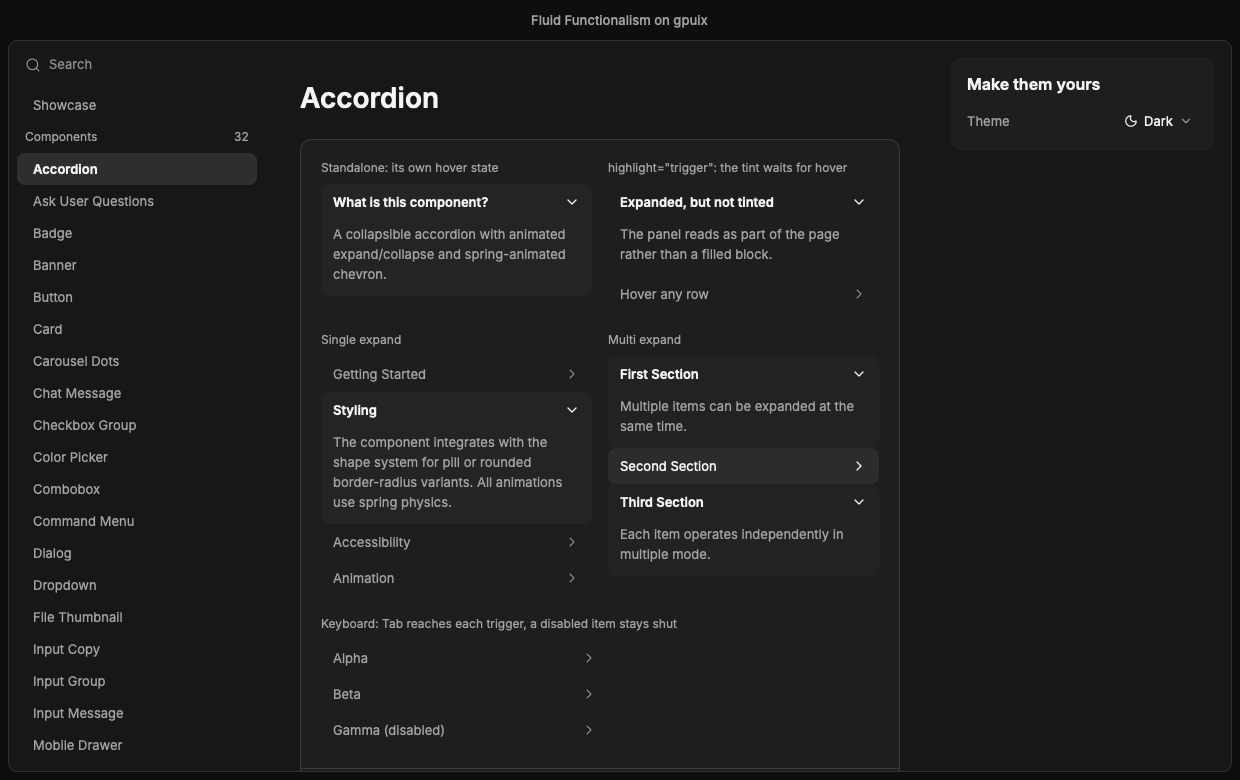
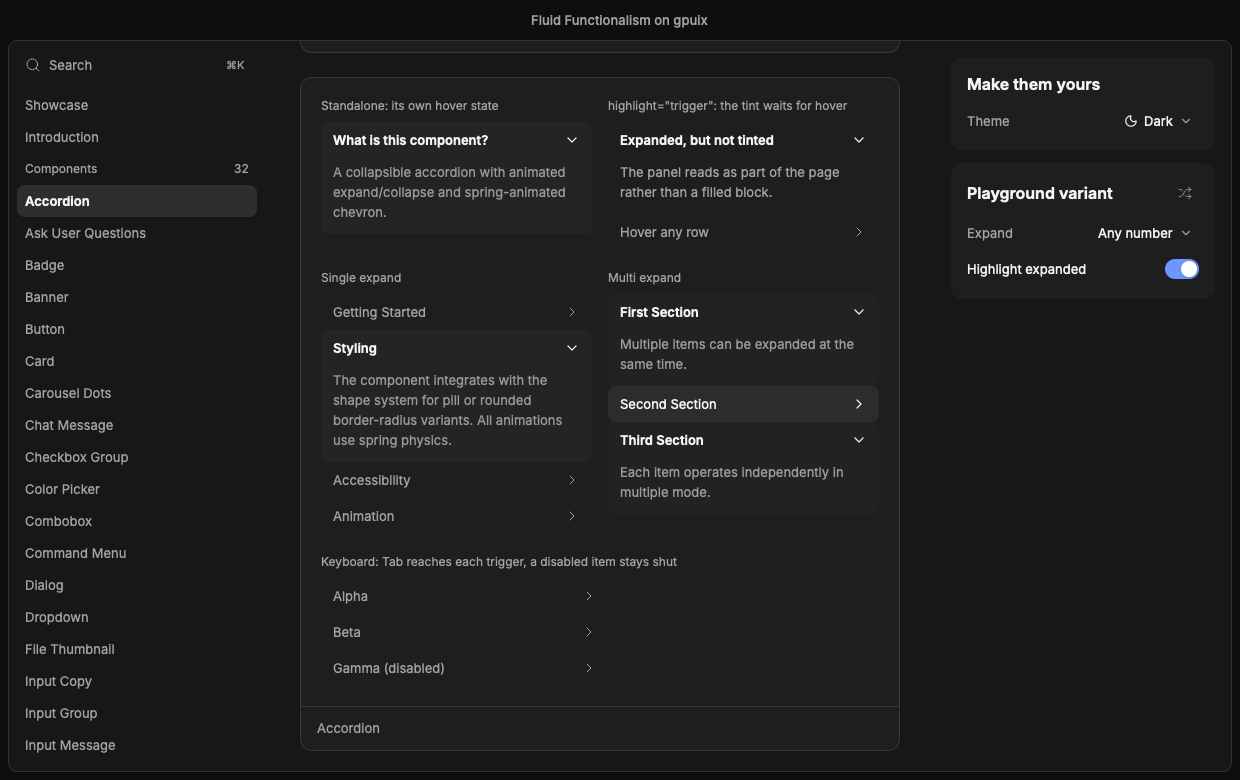
Accordion playground: Expand select and Highlight expanded switch over four items

diff --git a/src/demos/accordion.tsx b/src/demos/accordion.tsx
@@ -1,4 +1,4 @@
-import type { JSX } from "solid-js";
+import { createSignal, type JSX, Show } from "solid-js";
 import {
 	Accordion,
 	AccordionContent,
@@ -6,8 +6,16 @@ import {
 	AccordionItem,
 	AccordionTrigger,
 } from "../components/accordion";
-import type { DemoModule } from "../lib/demo";
+import type { DemoModule, ShotContext } from "../lib/demo";
 import { DemoCard } from "../lib/demo-kit";
+import {
+	PlayField,
+	PlaygroundLayout,
+	PlaygroundPanel,
+	PlaySelect,
+	PlaySwitch,
+	pick,
+} from "../lib/playground";
 import { color, type as scale } from "../lib/theme";
 
 function Section(props: { caption: string; children: JSX.Element }) {
@@ -48,9 +56,129 @@ function Row(props: { children: JSX.Element }) {
 export const title = "Accordion";
 export const group = "Components";
 
+const PLAY_ITEMS = [
+	{
+		value: "item-1",
+		title: "What is Fluid Functionalism?",
+		content:
+			"A design philosophy where every animation serves a functional purpose — motion is information, not decoration.",
+	},
+	{
+		value: "item-2",
+		title: "How does fluid hover work?",
+		content:
+			"The closest item to your cursor is highlighted before you click, reducing targeting errors.",
+	},
+	{
+		value: "item-3",
+		title: "Why spring physics?",
+		content:
+			"Springs respond naturally to interruption — if a user reverses mid-transition, the animation adapts.",
+	},
+	{
+		value: "item-4",
+		title: "Is it compatible with shadcn/ui?",
+		content:
+			"Yes. Your existing theme, radius tokens, and setup apply automatically.",
+	},
+] as const;
+
+/** `one` keeps exactly one open, `oneOrNone` is single and collapsible, `any` is multiple. */
+type Expand = "one" | "oneOrNone" | "any";
+
+const EXPAND_OPTIONS = [
+	{ value: "one", label: "One at a time" },
+	{ value: "oneOrNone", label: "One or none" },
+	{ value: "any", label: "Any number" },
+] as const;
+
+function Playground() {
+	const [expand, setExpand] = createSignal<Expand>("oneOrNone");
+	const [highlightExpanded, setHighlightExpanded] = createSignal(true);
+	const first = PLAY_ITEMS[0].value;
+	// A group's value is controlled so "One at a time" can refuse the close of the open item, which Base UI's single mode always allows.
+	const [single, setSingle] = createSignal<string>(first);
+	const [multiple, setMultiple] = createSignal<string[]>([first]);
+
+	const changeExpand = (next: Expand) => {
+		setSingle(first);
+		setMultiple([first]);
+		setExpand(next);
+	};
+	const shuffle = () => {
+		changeExpand(pick(["one", "oneOrNone", "oneOrNone", "any"] as const));
+		setHighlightExpanded(Math.random() > 0.4);
+	};
+
+	const items = () =>
+		PLAY_ITEMS.map((item) => (
+			<AccordionItem value={item.value}>
+				<AccordionTrigger testId={`play-${item.value}`}>
+					{item.title}
+				</AccordionTrigger>
+				<AccordionContent>{item.content}</AccordionContent>
+			</AccordionItem>
+		));
+	const highlight = () => (highlightExpanded() ? "item" : "trigger");
+
+	return (
+		<PlaygroundLayout
+			preview={
+				<div style={{ width: 288, paddingTop: 20 }}>
+					<Show
+						when={expand() === "any"}
+						fallback={
+							<AccordionGroup
+								type="single"
+								highlight={highlight()}
+								value={single()}
+								onValueChange={(next) => {
+									if (next === "" && expand() === "one") return;
+									setSingle(next);
+								}}
+							>
+								{items()}
+							</AccordionGroup>
+						}
+					>
+						<AccordionGroup
+							type="multiple"
+							highlight={highlight()}
+							value={multiple()}
+							onValueChange={setMultiple}
+						>
+							{items()}
+						</AccordionGroup>
+					</Show>
+				</div>
+			}
+			controls={
+				<PlaygroundPanel onShuffle={shuffle}>
+					<PlayField label="Expand">
+						<PlaySelect
+							testId="play-expand"
+							value={expand()}
+							onChange={changeExpand}
+							options={EXPAND_OPTIONS}
+						/>
+					</PlayField>
+					<PlaySwitch
+						testId="play-highlight"
+						label="Highlight expanded"
+						checked={highlightExpanded()}
+						onToggle={() => setHighlightExpanded(!highlightExpanded())}
+					/>
+				</PlaygroundPanel>
+			}
+		/>
+	);
+}
+
 export function Demo() {
 	return (
-		<DemoCard title="Accordion">
+		<>
+			<Playground />
+			<DemoCard title="Accordion">
 			<div style={{ display: "flex", flexDirection: "column", gap: 20 }}>
 				<Row>
 					<Section caption="Standalone: its own hover state">
@@ -177,11 +305,52 @@ export function Demo() {
 					</Section>
 				</Row>
 			</div>
-		</DemoCard>
+			</DemoCard>
+		</>
 	);
 }
 
+/** The page is taller than the window: scroll an element to the upper part of it. */
+async function reveal(shot: ShotContext, testId: string) {
+	let previous = Number.NaN;
+	for (let attempt = 0; attempt < 8; attempt++) {
+		const y = shot.centerOf(testId).y;
+		if ((y > 120 && y < 320) || y === previous) return;
+		previous = y;
+		await shot.scroll(700, 400, 0, -(y - 200));
+	}
+	throw new Error(`could not scroll ${testId} into view`);
+}
+
+/** Opens the Expand select from the keyboard (a pointer press that opens a popup cannot run in the test renderer) and walks `steps` rows. */
+async function pickExpand(shot: ShotContext, steps: string) {
+	await shot.focus("play-expand-trigger");
+	await shot.press(`down ${steps} enter`);
+	await shot.settle(300);
+}
+
 export const scenarios: DemoModule["scenarios"] = async (shot) => {
+	// The playground's controls sit in the right column.
+	shot.capture("playground");
+	await pickExpand(shot, "down");
+	await shot.click("play-item-2");
+	shot.expectText(PLAY_ITEMS[1].content, true);
+	shot.expectText(PLAY_ITEMS[0].content, true);
+	await shot.click("play-highlight-track");
+	shot.capture("playground-any-trigger-highlight");
+	await pickExpand(shot, "up up");
+	await shot.click("play-item-1");
+	shot.expectText(PLAY_ITEMS[0].content, true);
+	await shot.click("play-item-1");
+	shot.expectText(PLAY_ITEMS[0].content, true);
+	await shot.click("play-item-3");
+	await shot.settle(300);
+	shot.expectText(PLAY_ITEMS[0].content, false);
+	shot.capture("playground-one-at-a-time");
+	await shot.click("playground-shuffle");
+	shot.capture("playground-shuffled");
+
+	await reveal(shot, "single-2");
 	await shot.hover("single-2");
 	shot.capture("hover-closed-row");
 	await shot.click("single-2");
@@ -200,6 +369,7 @@ export const scenarios: DemoModule["scenarios"] = async (shot) => {
 	shot.capture("keyboard-focus");
 
 	// Closed panels leave the tree once their exit is over.
+	await reveal(shot, "kb-1");
 	await shot.click("kb-1");
 	shot.expectText("Alpha body", true);
 	await shot.click("kb-1");

diff --git a/drift/accordion.md b/drift/accordion.md
@@ -202,14 +202,23 @@ open tints while a closed row is hovered, the height and opacity timings of the 
 - **Fidelity:** dropped.
 - **Components it hits:** every component.
 
-## Demo: playground missing
+## Playground: "One at a time" is a controlled value
 
-- **Cause:** `not ported yet`.
-- **Original:** a playground with an Expand select (one at a time / one or none / any number) and a "Highlight expanded" switch over four items (`lib/docs/playgrounds/accordion.tsx:28-148`, `app/docs/accordion/page.tsx:129-150`).
-- **Port:** no playground; `highlight="trigger"` and the single and multiple modes are shown as fixed variants (`src/demos/accordion.tsx:51-178`).
-- **Workaround:** the fixed variants.
-- **Fidelity:** dropped.
-- **Components it hits:** every component with a playground (card, button, dropdown, and others).
+- **Cause:** `port choice` (the port's single mode is always collapsible, `BASE-UI-AUDIT.md:83`, so there is no `collapsible` prop to turn off).
+- **Original:** the Expand select maps to `type` and `collapsible`; "One at a time" is a non-collapsible single group (`lib/docs/playgrounds/accordion.tsx:28-34`, `:78-92`).
+- **Port:** the playground controls the group's value and drops the close of the open item while "One at a time" is chosen (`src/demos/accordion.tsx`, `Playground`). Switching Expand resets the open set to the first item, as the source's `key` remount does.
+- **Workaround:** the controlled value.
+- **Fidelity:** exact in what it does; the group itself still has no non-collapsible mode.
+- **Components it hits:** just this one.
+
+## Playground: frame and preview
+
+- **Cause:** `port choice` (the preview sits in the shared demo card, so it lines up with the page's other cards).
+- **Original:** `ComponentPreview` with no padding, `h-[420px]`, top-aligned, the group centred at the card's width with `px-6 py-10`, and Preview / Code tabs with the snippet kept in sync (`app/docs/accordion/page.tsx:129-150`, `lib/docs/playgrounds/accordion.tsx:36-65`, `:130-137`).
+- **Port:** the `DemoCard` frame titled "Playground" in its footer, a 420 px minimum, the group 288 px wide (its fixed width) centred with 20 px above it; no Code tab and no generated snippet (`src/lib/playground.tsx`, `src/demos/accordion.tsx`). The four items and their texts match the source.
+- **Workaround:** none.
+- **Fidelity:** approximated (frame chrome), dropped (the code snippet).
+- **Components it hits:** every playground.
 
 ## Demo: Row highlight has two items, not three
 
